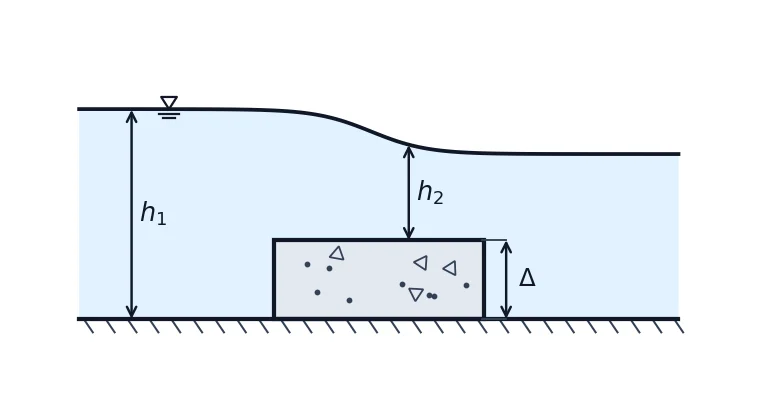
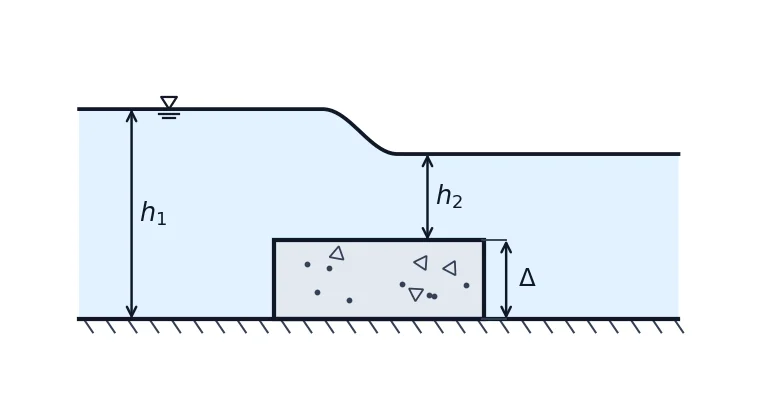
fix(hhu-814): 勘误 2018-12 水流方向并完善 2018-10/14 解析与配图

Changed region(s): [[0.3342, 0.2714, 0.7292, 0.603], [0.1519, 0.2714, 0.1823, 0.3015]]

diff --git a/web/public/sw.js b/web/public/sw.js
@@ -1,4 +1,4 @@
-const CACHE_NAME = 'jingyan-multi-v33';
+const CACHE_NAME = 'jingyan-multi-v34';
 const PRECACHE_URLS = [
   './',
   './index.html',
